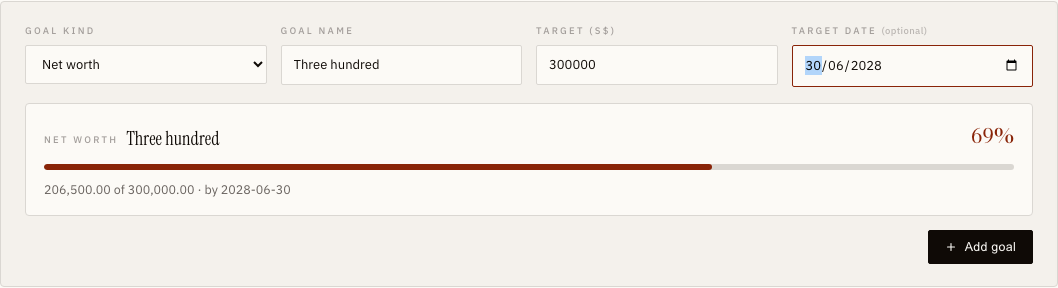
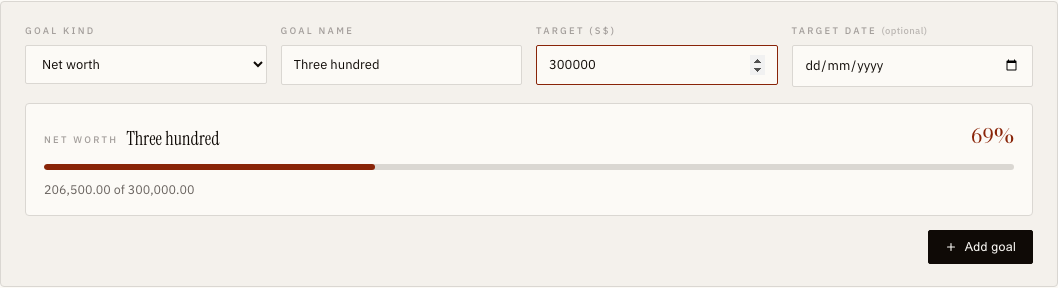
fix(goals): review findings — single name field, label/aria alignment, goalCtx as sole source, CSS dedupe, edit Save guard; repair plan.md

diff --git a/dashboard/app/page-goals.jsx b/dashboard/app/page-goals.jsx
@@ -25,32 +25,38 @@ function goalTargetText(goal, result, assetKinds, privacy) {
 // Mini goal card for a draft: same bar / % / target text as a saved card, computed from today's portfolio.
 function GoalPreview({ draft, goalCtx, assetKinds, privacy }) {
   const kind = draft.kind || "net_worth";
-  const goal = kind === "debt_payoff" && draft.baseline == null ? { ...draft, baseline: goalCtx.debtsById?.[draft.debt_id]?.value } : draft;
+  const isNew = draft.id == null;
+  const previewGoal = kind === "debt_payoff" && draft.baseline == null ? { ...draft, baseline: goalCtx.debtsById?.[draft.debt_id]?.value } : draft;
   const hasTarget = kind === "net_worth" ? Number(draft.target_amount) > 0
     : kind === "debt_payoff" ? Boolean(goalCtx.debtsById?.[draft.debt_id])
     : Number(draft.target_pct) > 0;
-  const result = computeGoalProgress(goal, goalCtx);
-  const pct = !hasTarget ? "Enter a target" : result.done ? "Reached" : `${Math.round(result.progress * 100)}%`;
-  const text = !hasTarget
-    ? kind === "net_worth" ? `Net worth today ${fmtSGD(goalCtx.net, privacy)}`
-      : kind === "debt_payoff" ? "Choose a debt to see its balance"
-      : `${assetKinds?.[draft.asset_kind]?.name || draft.asset_kind} is ${result.current.toFixed(1)}% of assets today`
-    : kind === "net_worth" ? `${fmtSGD(result.current, privacy)} of ${fmtSGD(result.target, privacy)}`
-    : goalTargetText(goal, result, assetKinds, privacy) + (kind === "debt_payoff" && draft.baseline == null ? " · baseline set when you save" : "");
+  const result = computeGoalProgress(previewGoal, goalCtx);
+  const done = hasTarget && result.done;
+  const pctLabel = !hasTarget ? "Enter a target" : done ? "Done" : `${Math.round(result.progress * 100)}%`;
+  const emptyText = {
+    net_worth: `Net worth today ${fmtSGD(goalCtx.net, privacy)}`,
+    debt_payoff: "Choose a debt to see its balance",
+    allocation: `${assetKinds?.[draft.asset_kind]?.name || draft.asset_kind} is ${result.current.toFixed(1)}% of assets today`,
+  }[kind];
+  // Net-worth preview reads "current of target" (the saved card shows the target alone; today's value lives in the hero).
+  const targetText = kind === "net_worth" ? `${fmtSGD(result.current, privacy)} of ${fmtSGD(result.target, privacy)}`
+    : goalTargetText(previewGoal, result, assetKinds, privacy) + (kind === "debt_payoff" && isNew ? " · baseline set when you save" : "");
   return (
-    <div className={"pf-goal-card pf-goal-preview" + (hasTarget && result.done ? " done" : "")}>
+    <div className={"pf-goal-card pf-goal-preview" + (done ? " done" : "")}>
       <div className="pf-goal-head">
         <div className="pf-goal-title">
           <span className="tag">{goalKindTag(kind)}</span>
-          <strong>{draft.name?.trim() || "Preview"}</strong>
+          <strong>{done && <Icon name="check" size={12} stroke={2.2} />} {draft.name?.trim() || "Preview"}</strong>
         </div>
-        <div className={"pf-goal-pct tnum" + (hasTarget ? "" : " muted")}>{pct}</div>
+        <div className={"pf-goal-pct tnum" + (hasTarget ? "" : " muted")}>{pctLabel}</div>
       </div>
       <div className="pf-goal-bar"><div style={{ width: `${hasTarget ? result.progress * 100 : 0}%` }} /></div>
-      <div className="pf-goal-meta"><span>{text}{draft.target_date ? ` · by ${draft.target_date}` : ""}</span></div>
+      <div className="pf-goal-meta"><span>{hasTarget ? targetText : emptyText}{draft.target_date ? ` · by ${draft.target_date}` : ""}</span></div>
     </div>
   );
 }
+
+const GOAL_NAME_PLACEHOLDER = { net_worth: "e.g. First million", debt_payoff: "Pay off …", allocation: "Equities at 30%" };
 
 function GoalForm({ debts, assetKinds, goalCtx, busy, onCreate, privacy }) {
   const [kind, setKind] = useStateGL("net_worth");
@@ -83,60 +89,46 @@ function GoalForm({ debts, assetKinds, goalCtx, busy, onCreate, privacy }) {
       <div className="pf-add-grid">
         <label>
           <span>Goal kind</span>
-          <select aria-label="Goal kind" value={kind} onChange={(e) => setKind(e.target.value)}>
+          <select aria-label="Goal kind" value={kind} onChange={(e) => { setKind(e.target.value); setName(""); }}>
             {GOAL_KINDS.map((k) => <option key={k.id} value={k.id}>{k.label}</option>)}
           </select>
         </label>
-        {kind === "net_worth" && (
-          <>
-            <label>
-              <span>Goal name</span>
-              <input aria-label="Goal name" placeholder="e.g. First million" value={name} onChange={(e) => setName(e.target.value)} />
-            </label>
-            <label>
-              <span>Target (S$)</span>
-              <input aria-label="Target amount (S$)" type="number" min="1" step="any" placeholder="0.00" value={amount}
-                onChange={(e) => setAmount(e.target.value)} />
-            </label>
-          </>
-        )}
         {kind === "debt_payoff" && (
-          <>
-            <label>
-              <span>Debt</span>
-              <select aria-label="Debt" value={debtId} onChange={(e) => setDebtId(e.target.value)}>
-                <option value="">Choose a debt…</option>
-                {debts.map((d) => <option key={d.id} value={d.id}>{d.name} · {fmtSGD(d.value, false)}</option>)}
-              </select>
-            </label>
-            <label>
-              <span>Goal name <em>(optional)</em></span>
-              <input aria-label="Goal name" placeholder="Pay off …" value={name} onChange={(e) => setName(e.target.value)} />
-            </label>
-          </>
+          <label>
+            <span>Debt</span>
+            <select value={debtId} onChange={(e) => setDebtId(e.target.value)}>
+              <option value="">Choose a debt…</option>
+              {debts.map((d) => <option key={d.id} value={d.id}>{d.name} · {fmtSGD(d.value, false)}</option>)}
+            </select>
+          </label>
         )}
         {kind === "allocation" && (
           <>
             <label>
               <span>Asset class</span>
-              <select aria-label="Asset class" value={assetKind} onChange={(e) => setAssetKind(e.target.value)}>
+              <select value={assetKind} onChange={(e) => setAssetKind(e.target.value)}>
                 {Object.entries(assetKinds).map(([id, k]) => <option key={id} value={id}>{k.name}</option>)}
               </select>
             </label>
             <label>
               <span>Target %</span>
-              <input aria-label="Target %" type="number" min="1" max="100" step="any" placeholder="e.g. 30" value={pct}
-                onChange={(e) => setPct(e.target.value)} />
-            </label>
-            <label>
-              <span>Goal name <em>(optional)</em></span>
-              <input aria-label="Goal name" placeholder="Equities at 30%" value={name} onChange={(e) => setName(e.target.value)} />
+              <input type="number" min="1" max="100" step="any" placeholder="e.g. 30" value={pct} onChange={(e) => setPct(e.target.value)} />
             </label>
           </>
         )}
         <label>
+          <span>Goal name {kind !== "net_worth" && <em>(optional)</em>}</span>
+          <input placeholder={GOAL_NAME_PLACEHOLDER[kind]} value={name} onChange={(e) => setName(e.target.value)} />
+        </label>
+        {kind === "net_worth" && (
+          <label>
+            <span>Target (S$)</span>
+            <input type="number" min="1" step="any" placeholder="0.00" value={amount} onChange={(e) => setAmount(e.target.value)} />
+          </label>
+        )}
+        <label>
           <span>Target date <em>(optional)</em></span>
-          <input aria-label="Target date" type="date" value={targetDate} onChange={(e) => setTargetDate(e.target.value)} />
+          <input type="date" value={targetDate} onChange={(e) => setTargetDate(e.target.value)} />
         </label>
       </div>
       <GoalPreview draft={draft} goalCtx={goalCtx} assetKinds={assetKinds} privacy={privacy} />
@@ -195,32 +187,32 @@ function GoalRow({ goal, result, projection, assetKinds, goalCtx, busy, editing,
         <div className="pf-add-grid">
           <label>
             <span>Goal name</span>
-            <input aria-label="Goal name" value={draft.name} onChange={(e) => setDraft((cur) => ({ ...cur, name: e.target.value }))} />
+            <input value={draft.name} onChange={(e) => setDraft((cur) => ({ ...cur, name: e.target.value }))} />
           </label>
           {kind === "net_worth" && (
             <label>
               <span>Target (S$)</span>
-              <input aria-label="Target amount (S$)" type="number" min="1" step="any" value={draft.target_amount}
+              <input type="number" min="1" step="any" value={draft.target_amount}
                 onChange={(e) => setDraft((cur) => ({ ...cur, target_amount: e.target.value }))} />
             </label>
           )}
           {kind === "allocation" && (
             <label>
               <span>Target %</span>
-              <input aria-label="Target %" type="number" min="1" max="100" step="any" value={draft.target_pct}
+              <input type="number" min="1" max="100" step="any" value={draft.target_pct}
                 onChange={(e) => setDraft((cur) => ({ ...cur, target_pct: e.target.value }))} />
             </label>
           )}
           <label>
             <span>Target date <em>(optional)</em></span>
-            <input aria-label="Target date" type="date" value={draft.target_date || ""}
+            <input type="date" value={draft.target_date || ""}
               onChange={(e) => setDraft((cur) => ({ ...cur, target_date: e.target.value }))} />
           </label>
         </div>
         <GoalPreview draft={{ ...goal, ...draft }} goalCtx={goalCtx} assetKinds={assetKinds} privacy={privacy} />
         <div className="pf-add-actions">
           <button className="btn ghost" type="button" onClick={onCancel}>Cancel</button>
-          <button className="btn primary" type="button" disabled={busy || !draft.name.trim()} onClick={onSave}>Save</button>
+          <button className="btn primary" type="button" disabled={busy || !draft.name.trim() || (kind === "net_worth" && !(Number(draft.target_amount) > 0)) || (kind === "allocation" && !(Number(draft.target_pct) > 0))} onClick={onSave}>Save</button>
         </div>
       </div>
     );
@@ -340,7 +332,7 @@ function GoalSuggestions({ goals, net, debtsById, assetKinds, onAdd, privacy }) 
   );
 }
 
-function GoalsCard({ goals, resultsById, projectionsById, goalCtx, net, debtsById, debts, assetKinds, busyId, onCreate, onUpdate, onDelete, privacy }) {
+function GoalsCard({ goals, resultsById, projectionsById, goalCtx, debts, assetKinds, busyId, onCreate, onUpdate, onDelete, privacy }) {
   const [editingId, setEditingId] = useStateGL(null);
   const [draft, setDraft] = useStateGL({});
   const [error, setError] = useStateGL("");
@@ -381,7 +373,7 @@ function GoalsCard({ goals, resultsById, projectionsById, goalCtx, net, debtsByI
           <GoalForm debts={debts} assetKinds={assetKinds} goalCtx={goalCtx} busy={busyId === "goal:create"} onCreate={onCreate} privacy={privacy} />
         </div>
       </div>
-      <GoalSuggestions goals={goals} net={net} debtsById={debtsById} assetKinds={assetKinds} onAdd={onCreate} privacy={privacy} />
+      <GoalSuggestions goals={goals} net={goalCtx.net} debtsById={goalCtx.debtsById} assetKinds={assetKinds} onAdd={onCreate} privacy={privacy} />
     </>
   );
 }

diff --git a/dashboard/app/styles.css b/dashboard/app/styles.css
@@ -1324,8 +1324,8 @@ body {
 
 /* ── Goals ─────────────────────────────────────────────────────────────── */
 .pf-goal-form { border: 1px solid var(--rule); border-radius: var(--radius); }
-.pf-goal-form .pf-add-grid { grid-template-columns: repeat(auto-fit, minmax(170px, 1fr)); }
-.pf-goal-preview { margin-top: 16px; background: var(--paper); }
+.pf-goal-form .pf-add-grid, .pf-goal-card.editing .pf-add-grid { grid-template-columns: repeat(auto-fit, minmax(170px, 1fr)); }
+.pf-goal-preview { margin-top: 16px; }
 .pf-goal-preview .pf-goal-pct.muted { font: 400 12.5px "IBM Plex Sans", sans-serif; color: var(--ink-4); letter-spacing: 0.02em; }
 .pf-goal-hero { display: grid; grid-template-columns: repeat(3, 1fr); gap: 16px; }
 .pf-goal-grid { display: grid; grid-template-columns: repeat(auto-fill, minmax(320px, 1fr)); gap: 14px; margin-bottom: 18px; }
@@ -1333,7 +1333,6 @@ body {
 .pf-goal-card.done { border-color: oklch(0.8 0.08 150 / 0.7); }
 .pf-goal-card.missing { opacity: 0.75; }
 .pf-goal-card.editing { grid-column: 1 / -1; background: var(--paper-2); gap: 0; }
-.pf-goal-card.editing .pf-add-grid { grid-template-columns: repeat(auto-fit, minmax(170px, 1fr)); }
 .pf-goal-head { display: flex; justify-content: space-between; align-items: baseline; gap: 10px; }
 .pf-goal-title { display: flex; align-items: center; gap: 8px; min-width: 0; }
 .pf-goal-title strong { font-family: "Instrument Serif", serif; font-size: 18px; font-weight: 400; letter-spacing: 0.005em; }

diff --git a/dashboard/app/page-portfolio.test.js b/dashboard/app/page-portfolio.test.js
@@ -175,7 +175,6 @@ test("goals page renders an AI suggestions panel wired to the suggestions API", 
 
 test("goal form uses the labelled add-grid idiom and previews the draft through the progress helper", () => {
   assert.match(goalsSource, /function GoalPreview/);
-  assert.match(goalsSource, /computeGoalProgress\(/); // preview reuses the helper, never re-derives the math
   assert.match(goalsSource, /className="pf-add-row pf-goal-form"/);
   assert.match(goalsSource, /pf-add-grid/);
   assert.match(goalsSource, /<span>Goal kind<\/span>/);
@@ -185,8 +184,8 @@ test("goal form uses the labelled add-grid idiom and previews the draft through 
   assert.match(goalsSource, /baseline set when you save/i);
   assert.match(goalsSource, /GoalForm[^]*goalCtx=\{goalCtx\}/); // GoalsCard passes the live context into the form
   assert.match(source, /<GoalsCard[^]*goalCtx=\{goalCtx\}/);
-  assert.match(fs.readFileSync(path.join(__dirname, "..", "index.html"), "utf8"), /src="app\/page-goals\.jsx\?v=([4-9]|\d{2,})"/);
-  assert.match(fs.readFileSync(path.join(__dirname, "styles.css"), "utf8"), /\.pf-goal-form\b[^}]*auto-fit/);
+  assert.match(fs.readFileSync(path.join(__dirname, "..", "index.html"), "utf8"), /src="app\/page-goals\.jsx\?v=(?!1")\d+"/);
+  assert.match(fs.readFileSync(path.join(__dirname, "styles.css"), "utf8"), /\.pf-goal-form \.pf-add-grid/);
 });
 
 test("goal edit mode uses labelled fields and previews the draft with a live bar", () => {

diff --git a/dashboard/index.html b/dashboard/index.html
@@ -8,7 +8,7 @@
 <link rel="preconnect" href="https://fonts.googleapis.com">
 <link rel="preconnect" href="https://fonts.gstatic.com" crossorigin>
 <link href="https://fonts.googleapis.com/css2?family=Bodoni+Moda:ital,wght@0,400;0,500;0,700;0,800;1,400;1,500&family=Instrument+Serif:ital@0;1&family=JetBrains+Mono:wght@400;500&family=IBM+Plex+Sans:wght@300;400;500;600&display=swap" rel="stylesheet">
-<link rel="stylesheet" href="app/styles.css?v=15">
+<link rel="stylesheet" href="app/styles.css?v=16">
 <script src="https://accounts.google.com/gsi/client" async defer></script>
 </head>
 <body>
@@ -25,7 +25,7 @@
 <script type="text/babel" src="app/page-transactions.jsx?v=4"></script>
 <script type="text/babel" src="app/page-import.jsx?v=3"></script>
 <script type="text/babel" src="app/page-insights.jsx?v=10"></script>
-<script type="text/babel" src="app/page-goals.jsx?v=4"></script>
+<script type="text/babel" src="app/page-goals.jsx?v=5"></script>
 <script type="text/babel" src="app/page-portfolio.jsx?v=15"></script>
 <script type="text/babel" src="app/shell.jsx?v=6"></script>
 <script type="text/babel">

diff --git a/dashboard/app/page-portfolio.jsx b/dashboard/app/page-portfolio.jsx
@@ -831,7 +831,7 @@ function PortfolioPage({ privacy, sub = "pf-networth", onNavigate }) {
           <div className="panel panel-pad" style={{ marginTop: 18, color: "var(--debit)", fontSize: 13 }}>{err}</div>
         )}
         <div style={{ height: 18 }} />
-        <GoalsCard goals={goals} resultsById={goalResults} projectionsById={goalProjections} goalCtx={goalCtx} net={totals.net} debtsById={goalCtx.debtsById}
+        <GoalsCard goals={goals} resultsById={goalResults} projectionsById={goalProjections} goalCtx={goalCtx}
           debts={debts} assetKinds={assetKinds} busyId={busyId} privacy={privacy}
           onCreate={createGoal} onUpdate={updateGoal} onDelete={deleteGoal} />
       </div>

diff --git a/docs/plans/2026-08-26-goal-form-redesign/plan.md b/docs/plans/2026-08-26-goal-form-redesign/plan.md
@@ -70,78 +70,6 @@ Reused: `computeGoalProgress`, `goalCtx`, `goalTargetText`, `.pf-goal-bar`/`.pf-
 | Date | Task | Status | Notes |
 |---|---|---|---|
 | 2026-08-26 | Phase 0–2 | Done | intent.md confirmed; spec.md saved |
-# Goal form redesign — labelled fields + live progress preview — Implementation Plan
-
-> **For Agent:** Execute task-by-task; verify before proceeding; commit after each task.
-> **TDD Rule:** No production code without a failing test first.
-
-**Goal:** Add form + Edit mode on the Goals page adopt the Assets-tab labelled form idiom, with a live mini-card preview of the draft goal computed from today's portfolio.
-**Architecture:** UI-only change in `dashboard/app/page-goals.jsx` — `GoalForm` rebuilt on `.pf-add-row`/`.pf-add-grid`; a small `GoalPreview` renders `computeGoalProgress(draft, goalCtx)` with the existing bar/target-text pieces; `GoalRow`'s edit branch reuses the same labelled fields and preview. `GoalsCard` passes `goalCtx` (already computed in `PortfolioPage`) down. Small CSS block in `styles.css`; cache-busters in `index.html`.
-**Complexity Path:** Simplified TDD — no browser E2E harness in this repo (`tests/e2e` is Streamlit-mocked).
-**Status:** In progress
-**Branch:** `feat/goal-form-redesign` (created from `main` at 0e1a00c)
-
-## Architecture Review
-Files that change:
-- `dashboard/app/page-goals.jsx` — `GoalForm` (labelled grid + preview), new `GoalPreview`, `GoalRow` edit branch (labelled + live bar), `GoalsCard` prop plumbing
-- `dashboard/app/page-portfolio.jsx` — pass `goalCtx` into `GoalsCard` (one prop)
-- `dashboard/app/styles.css` — `.pf-goal-form` block (grid columns for the goal fields, preview spacing); reuse `.pf-add-row`/`.pf-add-grid` rules
-- `dashboard/index.html` — cache-busters page-goals v2, page-portfolio v15, styles v13
-- `dashboard/app/page-portfolio.test.js` — assertions for the new shape
-
-Reused: `computeGoalProgress`, `goalCtx`, `goalTargetText`, `.pf-goal-bar`/`.pf-goal-pct`/`.pf-goal-meta`, `.pf-add-row`/`.pf-add-grid`/`.pf-add-actions`, `Icon`, `fmtSGD`.
-
-## Shape — Ladder Pass
-| Candidate | Rung reached | Kept / Skipped | Reason (one line) |
-|---|---|---|---|
-| New form CSS system | 2 | Skipped | `.pf-add-row`/`.pf-add-grid`/`.pf-add-actions` already define the labelled idiom; `skipped: goal-specific form styles, add when the grid columns can't be expressed with one modifier class` |
-| Preview progress math | 2 | Kept by reuse | `computeGoalProgress(draft, goalCtx)` — no new math; debt draft gets `baseline = debt.value` |
-| Preview markup | 2/7 | Kept small | Reuse `.pf-goal-bar`, `.pf-goal-pct`, `goalTargetText`; ~25 lines for `GoalPreview` |
-| Shared `GoalFields` component for create + edit | 1 | Skipped | Create and edit differ (kind picker, debt/class pickers only on create); two `<label>` blocks are shorter than a parameterised component; `add when a third form appears` |
-| Projection in preview | 1 | Skipped | Out of scope per intent |
-| Collapsed/modal form | 1 | Skipped | Decided inline |
-| Debounce preview recompute | 1 | Skipped | `computeGoalProgress` is O(1); React re-render per keystroke is fine |
-| Prefactor | — | None | `GoalForm`/`GoalRow` already extracted last round; nothing to untangle |
-
-## Implementation Steps
-
-### Task 1 — Labelled add form + live preview (AC1–AC6, AC8)
-**Delivers:** The add form in the labelled idiom with a preview card that tracks the draft. Blocked by: none.
-1. RED `page-portfolio.test.js`: goals source has `function GoalPreview`, `computeGoalProgress(` inside `page-goals.jsx`, `className="pf-add-grid pf-goal-form"` (or equivalent), captions `<span>Goal kind</span>`, `<span>Target date</span>`, "Reached", "baseline"; `GoalsCard` receives `goalCtx`; `page-portfolio.jsx` passes `goalCtx={goalCtx}`; index.html has `page-goals.jsx?v=2`. Run → fails.
-2. GREEN `page-goals.jsx`: `GoalPreview({ draft, goalCtx, assetKinds, privacy })` — builds the draft goal (debt: `baseline` = chosen debt's value), calls `computeGoalProgress`, renders kind tag + name, `.pf-goal-bar`, `.pf-goal-pct` (`Reached` / `N%` / "Enter a target" when target empty), `goalTargetText` line (debt: "… · baseline set when you save"). `GoalForm` rebuilt as `<form className="pf-add-row">` → `<div className="pf-add-grid pf-goal-form">` with `<label><span>…</span>…</label>` per field, kind-specific fields swap inside the grid, `<div className="pf-add-actions">` with the button; error hint below. `GoalsCard` accepts `goalCtx` and passes it to `GoalForm`. `page-portfolio.jsx` passes `goalCtx`. CSS: `.pf-goal-form { grid-template-columns: … }` modifier + `.pf-goal-preview` spacing (~10 lines). Bump cache-busters.
-3. Gates: `node --test dashboard/app/page-portfolio.test.js`; `npx esbuild dashboard/app/*.jsx --loader:.jsx=jsx --outdir=/tmp/jsxcheck`.
-4. Commit `feat(goals): labelled add-goal form with live progress preview`.
-
-### Task 2 — Edit mode in the same idiom with live bar (AC7)
-**Delivers:** Editing a card shows captioned fields and the bar follows the draft. Blocked by: Task 1 (uses `GoalPreview`/`goalCtx`).
-1. RED `page-portfolio.test.js`: edit branch contains `<span>Goal name</span>` and renders `GoalPreview` (or the bar from the draft) — assert `editing` branch references `goalCtx`.
-2. GREEN: `GoalRow` edit branch → `.pf-goal-card editing` holds a `.pf-add-grid` of captioned fields (name, target amount / target %, date) + `GoalPreview` for the draft (kind + fixed fields from the saved goal) + Save/Cancel in `.pf-add-actions`. `GoalRow` receives `goalCtx`. Bump page-goals to v3 only if Task 1 already shipped (otherwise stays v2).
-3. Gates as Task 1. Commit `feat(goals): labelled edit mode with live progress bar`.
-
-### Task 3 — UI feedback loop + evidence
-1. Throwaway account seeded through the API (assets across ≥2 classes, one debt); screenshots: `goal-form-networth.png` (empty + typed target), `goal-form-debt.png`, `goal-form-allocation.png`, `goal-edit.png`. 2–3 look-adjust rounds expected.
-2. Cleanup row: delete the seeded goals/assets/debt via API; close the row.
-
-## Testing Strategy
-- JS: `for f in dashboard/app/*.test.js; do node --test "$f"; done` (data suite also under `TZ=America/New_York` — unchanged here but run for the record).
-- Syntax: esbuild over all JSX.
-- Python fast loop not affected (no backend change) — run once at the end as regression evidence: `uv run pytest tests/integration tests/unit tests/test_*.py -q`.
-
-## Risks & Mitigations
-- **Riskiest: grid columns** — the goal form has 3–5 fields depending on kind while `.pf-add-grid` fixes 5 columns; mitigate with a `.pf-goal-form` modifier using `repeat(auto-fit, minmax(160px, 1fr))` so any field count lays out.
-- **Preview for debt drafts** — `computeGoalProgress` needs `baseline`; the draft sets it from the chosen debt so it reads 0% rather than NaN.
-- **Static-file freshness** — server serves `dashboard/` from disk; no restart needed, but cache-busters must bump or the browser keeps v1.
-
-## Success Criteria
-- [ ] AC1–AC8 demonstrated (tests + screenshots)
-- [ ] All JS tests green, esbuild clean, Python fast loop unchanged
-- [ ] Tri-axis review + fix-pass verification recorded
-- [ ] Seeded demo data cleaned up
-
-## Progress Log
-| Date | Task | Status | Notes |
-|---|---|---|---|
-| 2026-08-26 | Phase 0–2 | Done | intent.md confirmed; spec.md saved |
 | 2026-08-26 | Interrogation pass | Done | 3 findings fixed: (1) `.pf-add-grid` hard-codes 5 columns — modifier with auto-fit added to Task 1 + risk; (2) debt draft needs `baseline` for the helper — stated in Task 1; (3) cache-buster numbering across Tasks 1–2 clarified (v2 then v3). |
 | 2026-08-26 | Task 1 | Done | labelled form + GoalPreview; efa800c |
 | 2026-08-26 | Task 2 | Done | labelled edit mode, live bar; 90c86aa |
@@ -149,13 +77,10 @@ Reused: `computeGoalProgress`, `goalCtx`, `goalTargetText`, `.pf-goal-bar`/`.pf-
 | 2026-08-26 | cleanup | Open | demo user goalform-demo@local.test seeded (3 assets, 1 debt, 3 goals, 1 suggestions cache doc) |
 
 ## Evidence
-: (1) `.pf-add-grid` hard-codes 5 columns — modifier with auto-fit added to Task 1 + risk; (2) debt draft needs `baseline` for the helper — stated in Task 1; (3) cache-buster numbering across Tasks 1–2 clarified (v2 then v3). |
-
-## Evidence
 
 ### Task 1 — labelled add form + preview
 - RED: new test `goal form uses the labelled add-grid idiom…` failed on `function GoalPreview`; pre-existing test `goal progress … not inline math` asserted `page-goals.jsx` never calls `computeGoalProgress` — tightened to exactly one call (the draft preview; saved rows still use `resultsById`).
-- GREEN: `GoalPreview` (draft → `computeGoalProgress(goal, goalCtx)`; debt draft takes today's balance as baseline), `GoalForm` on `.pf-add-row pf-goal-form` / `.pf-add-grid` with `<label><span>` captions, `.pf-add-actions`; `GoalsCard`/`PortfolioPage` pass `goalCtx`; CSS `.pf-goal-form` (border + auto-fit grid), `.pf-goal-preview`; cache-busters page-goals v2, page-portfolio v15, styles v13.
+- GREEN: `GoalPreview` (draft → `computeGoalProgress(goal, goalCtx)`; debt draft takes today's balance as baseline), `GoalForm` on `.pf-add-row pf-goal-form` / `.pf-add-grid` with `<label><span>` captions, `.pf-add-actions`; `GoalsCard`/`PortfolioPage` pass `goalCtx`; CSS `.pf-goal-form` (border + auto-fit grid), `.pf-goal-preview`; cache-busters page-goals v2, page-portfolio v15, styles v13 (final tree after look-adjust 52d9ca3: page-goals v4, styles v15; after fix pass: page-goals v5, styles v16).
 - Gates: JS 4/29/5/22/1 pass (data also `TZ=America/New_York` 29); esbuild 0 errors.
 
 ### Task 2 — labelled edit mode
